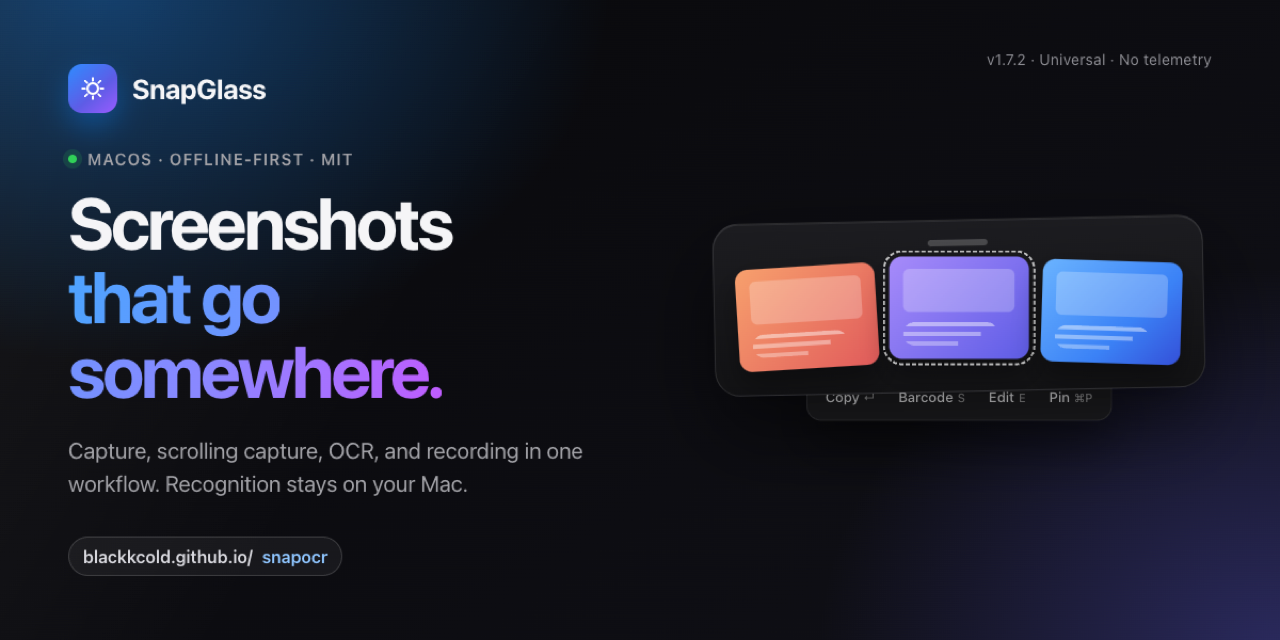
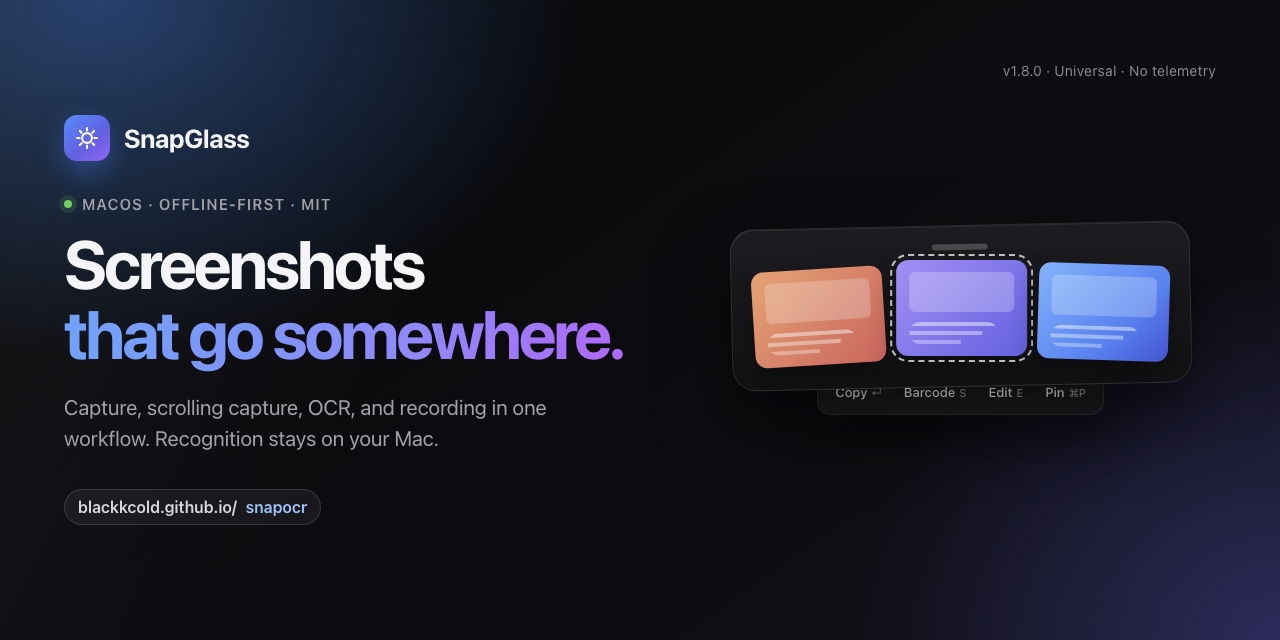
release: v1.8.0 — 统一历史资料库 (#40)
发版元数据与素材：版本 1.8.0 / build 10，CHANGELOG、README 双语、站点中英双语更新区与下载链、社交卡片重新导出。

本地正式构建已验证：Universal、自签通过、DMG 20,168,814 字节 ≈ 20.2 MB，shasum 与 hdiutil verify 均通过。

diff --git a/site/en/index.html b/site/en/index.html
@@ -48,7 +48,7 @@
     "name": "SnapGlass",
     "applicationCategory": "UtilitiesApplication",
     "operatingSystem": "macOS 13.0 or later",
-    "softwareVersion": "1.7.2",
+    "softwareVersion": "1.8.0",
     "description": "Open-source, offline-first screenshot, scrolling capture, OCR, barcode, screen and audio recording for macOS. Apple Vision runs on-device; no telemetry.",
     "url": "https://blackkcold.github.io/snapocr/en/",
     "downloadUrl": "https://github.com/blackkcold/snapocr/releases/latest",
@@ -190,8 +190,8 @@
           </div>
 
           <div class="hero-meta">
-            <span>v1.7.2</span><span class="sep"></span>
-            <span>16.6 MB</span><span class="sep"></span>
+            <span>v1.8.0</span><span class="sep"></span>
+            <span>20.2 MB</span><span class="sep"></span>
             <span>Apple Silicon / Intel</span><span class="sep"></span>
             <span>No telemetry</span>
           </div>
@@ -366,30 +366,30 @@
       <div class="container">
         <div class="new-band">
           <div>
-            <p class="kicker">v1.7</p>
-            <h2>The update that closes<br>the last gaps.</h2>
-            <p>Share appearance went from “looks fine” to “ready to post”; recording went from “it records” to “it saves even when the UI freezes”.</p>
+            <p class="kicker">v1.8</p>
+            <h2>Everything you capture,<br>finally in one place.</h2>
+            <p>Screenshots, audio, screen recordings, colour picks and unfinished recordings no longer live in separate windows.</p>
           </div>
           <div class="new-list">
             <div class="new-item">
-              <span class="badge">1.7.0</span>
+              <span class="badge">1.8</span>
               <div>
-                <h3>Share appearance in the editor</h3>
-                <p>Background templates, padding, radius, shadow, and stroke preview live; copy as a share image or the original.</p>
+                <h3>A unified library</h3>
+                <p>Sidebar categories, timeline and grid, search, filters, sorting, and an inspector; favourites and renaming in place.</p>
               </div>
             </div>
             <div class="new-item">
-              <span class="badge">1.7.2</span>
+              <span class="badge">1.8</span>
               <div>
-                <h3>Recording stability</h3>
-                <p>Fixed a stuck countdown, leftover HUD panels, a system-audio tail that blocked publishing, and a first-second freeze; added liveness watchdogs.</p>
+                <h3>Recordings you can manage</h3>
+                <p>Tags and notes, merging sessions of the same media type, a live recording banner, retention and storage panels, and Space Quick Look.</p>
               </div>
             </div>
             <div class="new-item">
-              <span class="badge">1.7</span>
+              <span class="badge">1.8</span>
               <div>
-                <h3>Four languages</h3>
-                <p>Simplified Chinese, English, Japanese, and Korean. Follows the system language.</p>
+                <h3>A Recent Deleted that persists</h3>
+                <p>Move to Trash and restore, or delete permanently; entries clear automatically after 30 days and survive a relaunch.</p>
               </div>
             </div>
           </div>
@@ -403,7 +403,7 @@
           <div>
             <p class="kicker" style="color:#8ec5ff">Download</p>
             <h2>Put the workflow<br>on your Mac.</h2>
-            <p>SnapGlass v1.7.2 · Universal · 16.6 MB. macOS 13.0 or later. On first launch, allow it in System Settings → Privacy &amp; Security.</p>
+            <p>SnapGlass v1.8.0 · Universal · 20.2 MB. macOS 13.0 or later. On first launch, allow it in System Settings → Privacy &amp; Security.</p>
             <div class="download-note">Fixed self-signed certificate · Sparkle in-place updates · SHA-256 checksum in the release · MIT license</div>
           </div>
           <div class="download-actions">
@@ -412,7 +412,7 @@
               Download DMG
             </a>
             <div class="download-links">
-              <a href="https://github.com/blackkcold/snapocr/releases/download/v1.7.2/SnapGlass-v1.7.2.dmg.sha256" target="_blank" rel="noopener">SHA-256</a>
+              <a href="https://github.com/blackkcold/snapocr/releases/download/v1.8.0/SnapGlass-v1.8.0.dmg.sha256" target="_blank" rel="noopener">SHA-256</a>
               <a href="https://github.com/blackkcold/snapocr/releases/latest/download/appcast.xml" target="_blank" rel="noopener">appcast</a>
               <a href="https://github.com/blackkcold/snapocr/blob/main/CHANGELOG.md" target="_blank" rel="noopener">Changelog</a>
             </div>

diff --git a/site/index.html b/site/index.html
@@ -48,7 +48,7 @@
     "name": "SnapGlass",
     "applicationCategory": "UtilitiesApplication",
     "operatingSystem": "macOS 13.0 or later",
-    "softwareVersion": "1.7.2",
+    "softwareVersion": "1.8.0",
     "description": "开源、离线优先的 macOS 截图、滚动截图、OCR、条码、录屏与录音工具。Apple Vision 本地识别，无遥测。",
     "url": "https://blackkcold.github.io/snapocr/",
     "downloadUrl": "https://github.com/blackkcold/snapocr/releases/latest",
@@ -201,8 +201,8 @@
           </div>
 
           <div class="hero-meta">
-            <span>v1.7.2</span><span class="sep"></span>
-            <span>16.6 MB</span><span class="sep"></span>
+            <span>v1.8.0</span><span class="sep"></span>
+            <span>20.2 MB</span><span class="sep"></span>
             <span>Apple Silicon / Intel</span><span class="sep"></span>
             <span>无遥测</span>
           </div>
@@ -377,30 +377,30 @@
       <div class="container">
         <div class="new-band">
           <div>
-            <p class="kicker">v1.7</p>
-            <h2>这次更新，<br>把“差一点”补上。</h2>
-            <p>分享外观从“能看”变成“能直接发”；录制从“能录”变成“卡住也能保存”。</p>
+            <p class="kicker">v1.8</p>
+            <h2>所有素材，<br>终于在同一处。</h2>
+            <p>截图、录音、录屏、取色与未完成录制不再散落在各自的窗口里。</p>
           </div>
           <div class="new-list">
             <div class="new-item">
-              <span class="badge">1.7.0</span>
+              <span class="badge">1.8</span>
               <div>
-                <h3>编辑器的分享外观</h3>
-                <p>背景模板、留白、圆角、投影、描边实时预览；复制时可选分享图或原图。</p>
+                <h3>统一历史资料库</h3>
+                <p>侧边栏分类、时间线与网格、搜索筛选排序、右侧检查器；收藏与重命名就地完成。</p>
               </div>
             </div>
             <div class="new-item">
-              <span class="badge">1.7.2</span>
+              <span class="badge">1.8</span>
               <div>
-                <h3>录制稳定性收尾</h3>
-                <p>倒计时卡住、HUD 残留、系统音频短尾导致整段无法发布、首秒卡死都已修复；新增存活看门狗。</p>
+                <h3>录制可管理、可合并</h3>
+                <p>标签与备注、同类型跨会话合并导出、Live 录制条、保留策略与存储面板、空格 Quick Look。</p>
               </div>
             </div>
             <div class="new-item">
-              <span class="badge">1.7</span>
+              <span class="badge">1.8</span>
               <div>
-                <h3>四语言界面</h3>
-                <p>简体中文、English、日本語、한국어。界面跟随系统语言。</p>
+                <h3>持久的最近删除</h3>
+                <p>移到废纸篓后可恢复，也可永久删除；30 天后自动清理，重启不丢。</p>
               </div>
             </div>
           </div>
@@ -414,7 +414,7 @@
           <div>
             <p class="kicker" style="color:#8ec5ff">下载</p>
             <h2>把截图工作流<br>装进 Mac。</h2>
-            <p>SnapGlass v1.7.2 · Universal · 16.6 MB。最低 macOS 13.0。首次打开需在「系统设置 → 隐私与安全性」中允许运行。</p>
+            <p>SnapGlass v1.8.0 · Universal · 20.2 MB。最低 macOS 13.0。首次打开需在「系统设置 → 隐私与安全性」中允许运行。</p>
             <div class="download-note">固定自签名证书 · Sparkle 原地更新 · SHA-256 校验文件随 Release 提供 · MIT 许可</div>
           </div>
           <div class="download-actions">
@@ -423,7 +423,7 @@
               下载 DMG
             </a>
             <div class="download-links">
-              <a href="https://github.com/blackkcold/snapocr/releases/download/v1.7.2/SnapGlass-v1.7.2.dmg.sha256" target="_blank" rel="noopener">SHA-256</a>
+              <a href="https://github.com/blackkcold/snapocr/releases/download/v1.8.0/SnapGlass-v1.8.0.dmg.sha256" target="_blank" rel="noopener">SHA-256</a>
               <a href="https://github.com/blackkcold/snapocr/releases/latest/download/appcast.xml" target="_blank" rel="noopener">appcast</a>
               <a href="https://github.com/blackkcold/snapocr/blob/main/CHANGELOG.md" target="_blank" rel="noopener">更新日志</a>
             </div>

diff --git a/site/og.html b/site/og.html
@@ -220,7 +220,7 @@
         <span>Pin<kbd>⌘P</kbd></span>
       </div>
     </div>
-    <div class="version">v1.7.2 · Universal · No telemetry</div>
+    <div class="version">v1.8.0 · Universal · No telemetry</div>
   </div>
 </body>
 </html>

diff --git a/README.en.md b/README.en.md
@@ -78,13 +78,14 @@ The system screenshot gives you an image. SnapGlass gives you a finished workflo
 
 ---
 
-## What's new in v1.7
+## What's new in v1.8
 
-### Share appearance, steadier recording
+### One library for everything you capture
 
-- **Share appearance in the editor**: background templates, padding, corner radius, shadow, and stroke; live canvas preview; copy as a share-ready image or the original.
-- **Recording stability**: fixed a stuck countdown, leftover HUD panels, unreadable recordings when system audio ended a few milliseconds early, and a first-second freeze. Watchdogs now stop and save when the UI stops responding.
-- **Four languages**: Simplified Chinese, English, Japanese, Korean.
+- **A unified History library**: screenshots, audio, screen recordings, colour history and unfinished recordings in one window — sidebar categories, timeline and grid views, search, filters, sorting, and an inspector for metadata.
+- **Recordings you can actually manage**: tags and notes, merging sessions of the same media type, a live recording banner, retention and storage panels, Space Quick Look, and dragging straight out to Finder or a chat window.
+- **A Recent Deleted that survives relaunch**: deletion is no longer memory-only. Move to Trash, restore, or delete permanently, with automatic cleanup after 30 days.
+- **`snapglass-library`, a headless CLI**: scan, export, merge, delete, selftest and benchmarks all run without launching the app, and every run requires an explicit isolated root.
 
 See the [CHANGELOG](CHANGELOG.md) for the full list.
 
@@ -256,13 +257,13 @@ Get the latest build from [Releases](https://github.com/blackkcold/snapocr/relea
 
 | File | Purpose |
 |------|---------|
-| `SnapGlass-vX.Y.Z.dmg` | Installer (Universal: Apple Silicon + Intel, about 16.6 MB) |
+| `SnapGlass-vX.Y.Z.dmg` | Installer (Universal: Apple Silicon + Intel, about 20.2 MB) |
 | `SnapGlass-vX.Y.Z.dmg.sha256` | SHA-256 checksum |
 | `appcast.xml` | Sparkle update feed; the app reads it automatically |
 
 ```bash
 # Verify the downloaded DMG
-shasum -a 256 -c SnapGlass-v1.7.2.dmg.sha256
+shasum -a 256 -c SnapGlass-v1.8.0.dmg.sha256
 ```
 
 > [!WARNING]
@@ -383,7 +384,7 @@ brew install xcodegen swiftlint
 xcodegen generate
 
 # Release build signed with the fixed certificate
-./scripts/build.sh --version 1.7.2 --sign
+./scripts/build.sh --version 1.8.0 --sign
 
 # Local debug build (ad-hoc, no auto-update)
 ./scripts/build.sh --no-sign

diff --git a/README.md b/README.md
@@ -80,11 +80,12 @@
 
 ## 这次更新了什么
 
-### v1.7 · 分享外观，录制更稳
+### v1.8 · 一个资料库，装下所有素材
 
-- **编辑器的「分享外观」**：背景模板、留白、圆角、投影、描边都能调；画布实时预览，复制时可选「分享图」或「原图」。窗口截图继续使用圆角浮窗。
-- **录屏稳定性收尾**：修复倒计时卡住、HUD 面板残留、带系统音频时整段无法发布、首秒卡死等问题；新增界面存活看门狗，主线程停响应时会自动停止并保存。
-- **四语言界面**：简体中文、English、日本語、한국어。
+- **统一历史资料库**：截图、录音、录屏、取色历史和未完成录制进同一个窗口——侧边栏分类、时间线与网格切换、搜索、筛选、排序，右侧检查器看元数据。
+- **录制真正可管理**：标签与备注、同类型跨会话合并导出、Live 录制条、保留策略与存储面板、空格 Quick Look、直接拖到 Finder 或聊天窗口。
+- **持久的「最近删除」**：删除不再只发生在内存里。移到废纸篓后可以恢复，也可以直接永久删除，30 天后自动清理。
+- **无界面 `snapglass-library`**：扫描、导出、合并、删除、自检与基准全部可在不启动 App 的情况下运行，每次都必须指定隔离根目录。
 
 完整修复列表见 [CHANGELOG](CHANGELOG.md)。
 
@@ -257,13 +258,13 @@
 
 | 文件 | 用途 |
 |------|------|
-| `SnapGlass-vX.Y.Z.dmg` | 安装包（Universal：Apple Silicon + Intel，约 16.6 MB） |
+| `SnapGlass-vX.Y.Z.dmg` | 安装包（Universal：Apple Silicon + Intel，约 20.2 MB） |
 | `SnapGlass-vX.Y.Z.dmg.sha256` | SHA-256 校验文件 |
 | `appcast.xml` | Sparkle 自动更新源，应用自行读取，无需手动下载 |
 
 ```bash
 # 校验下载的 DMG
-shasum -a 256 -c SnapGlass-v1.7.2.dmg.sha256
+shasum -a 256 -c SnapGlass-v1.8.0.dmg.sha256
 ```
 
 > [!WARNING]
@@ -384,7 +385,7 @@ brew install xcodegen
 xcodegen generate
 
 # 构建 Release 产物（用固定证书签名）
-./scripts/build.sh --version 1.7.2 --sign
+./scripts/build.sh --version 1.8.0 --sign
 
 # 只做本地调试构建（ad-hoc，无法自动更新）
 ./scripts/build.sh --no-sign

diff --git a/CHANGELOG.md b/CHANGELOG.md
@@ -7,6 +7,10 @@ and this project adheres to [Semantic Versioning](https://semver.org/).
 
 ## [Unreleased]
 
+## [1.8.0] - 2026-11-26
+
+> 统一历史资料库：截图、音频、视频、颜色与未完成录制终于在同一处收拢。
+
 ### Added
 - 统一历史资料库：截图、音频、视频、颜色与未完成录制共用侧边栏、时间线、网格/列表、搜索、筛选、排序和检查器。
 - `LibraryCore`：录制元数据、扫描快照、缩略图、删除、批量导出、保留策略、手动归组投影、跨会话合并和统一媒体解析。
@@ -664,7 +668,8 @@ and this project adheres to [Semantic Versioning](https://semver.org/).
 - 移除 GUI App 的 Automation 窗口、`snapglass://` URL Scheme、App Intents 产品依赖和 CLI 构建目标
 - 移除临时构建产物目录 `output/`，统一收敛到 `release/`
 
-[Unreleased]: https://github.com/blackkcold/snapocr/compare/v1.7.2...HEAD
+[Unreleased]: https://github.com/blackkcold/snapocr/compare/v1.8.0...HEAD
+[1.8.0]: https://github.com/blackkcold/snapocr/compare/v1.7.2...v1.8.0
 [1.7.2]: https://github.com/blackkcold/snapocr/compare/v1.7.0...v1.7.2
 [1.7.0]: https://github.com/blackkcold/snapocr/compare/v1.6.1...v1.7.0
 [1.6.1]: https://github.com/blackkcold/snapocr/compare/v1.6.0...v1.6.1
